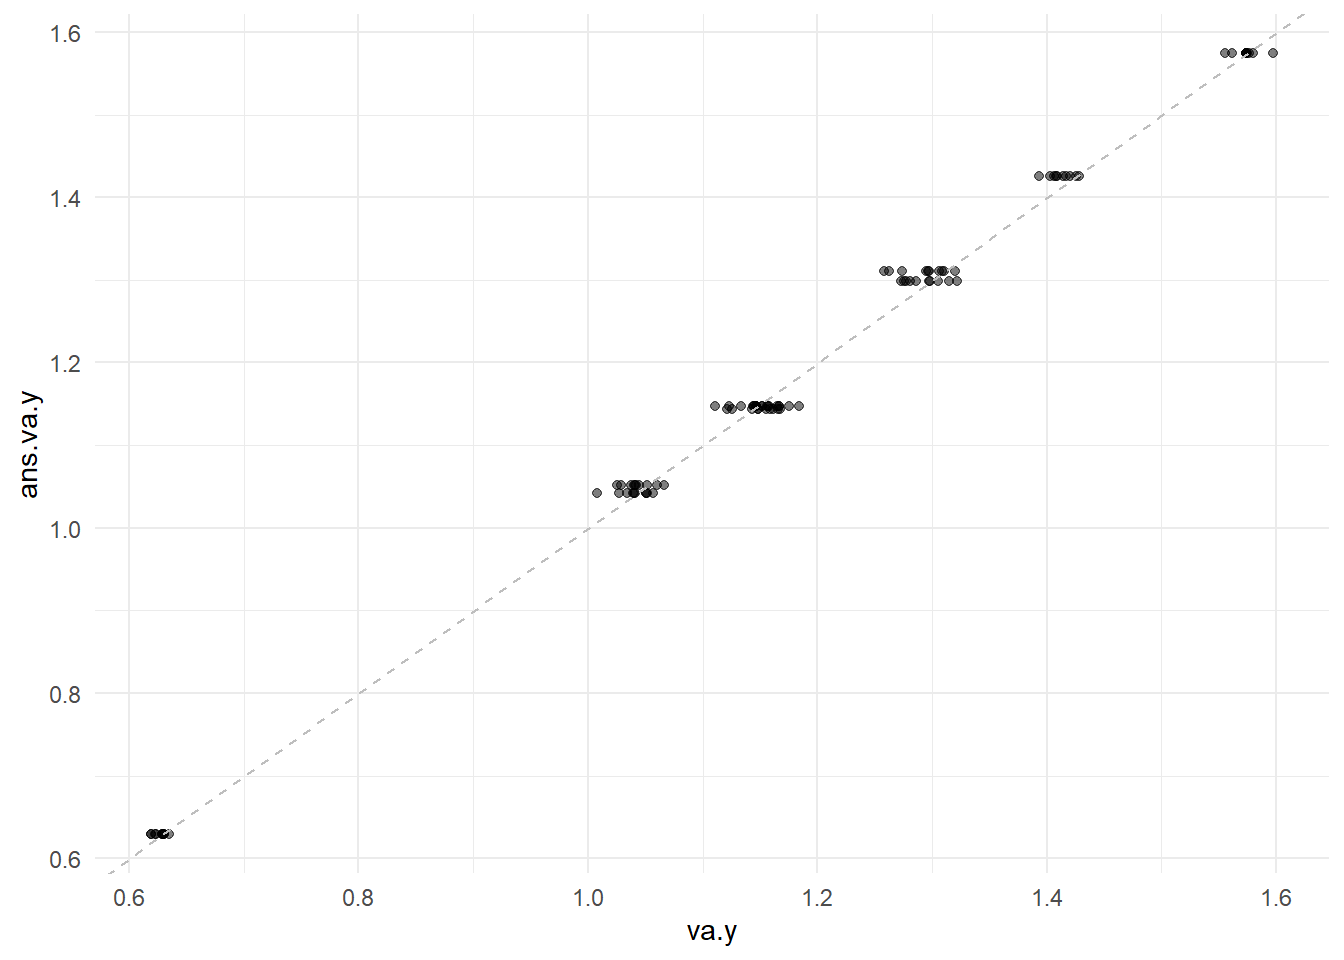
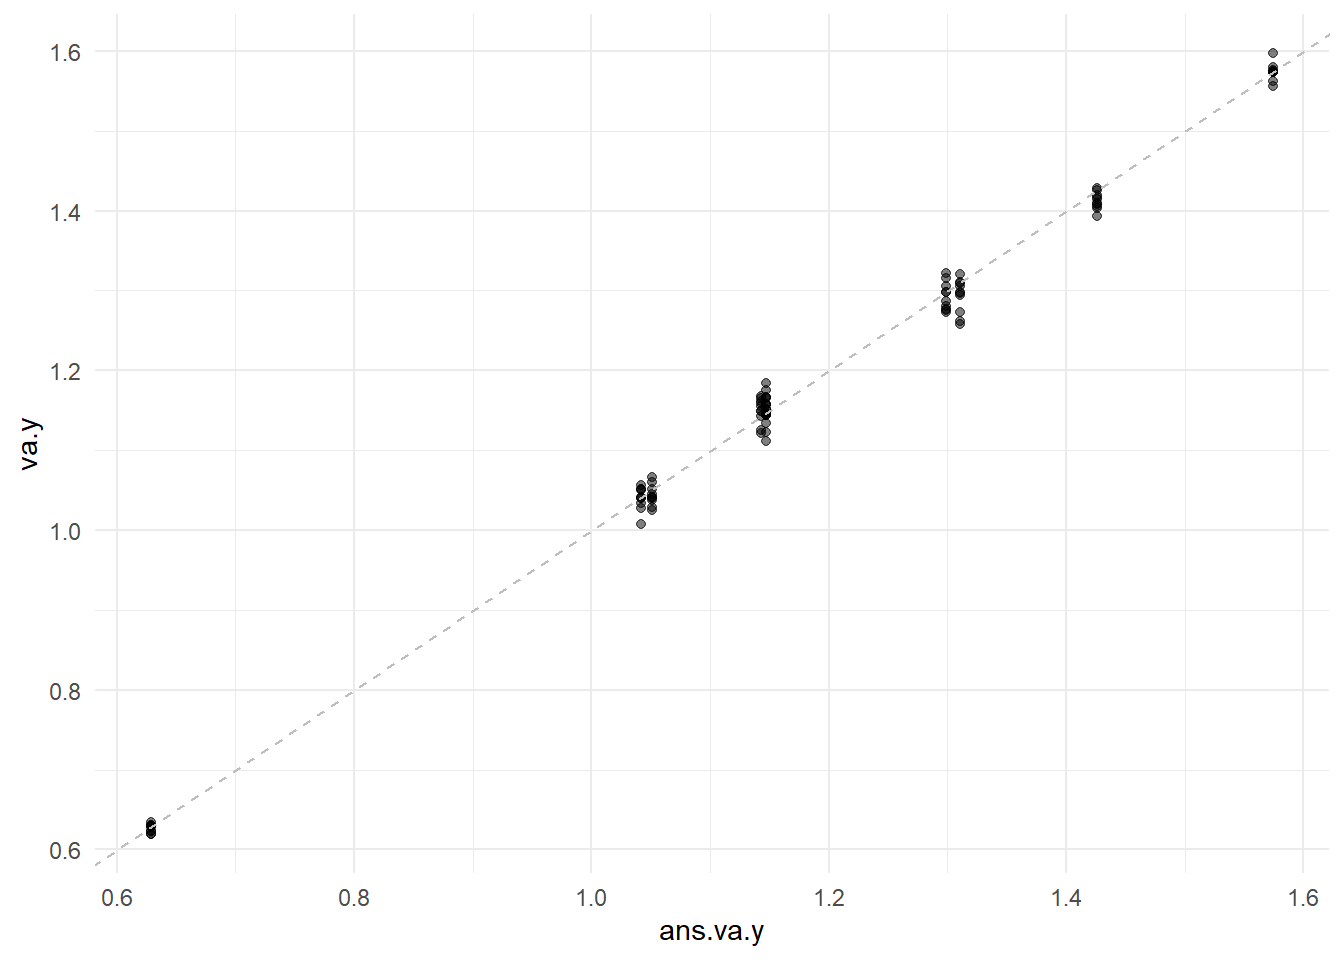
switch x and y axes for one plot

diff --git a/analysis.html b/analysis.html
@@ -707,7 +707,7 @@ Caution
 <span id="cb50-8"><a href="#cb50-8" aria-hidden="true" tabindex="-1"></a>         <span class="at">ans.va.y =</span> <span class="fu">vis_angle</span>(ans.phy.y, dist_to_screen)</span>
 <span id="cb50-9"><a href="#cb50-9" aria-hidden="true" tabindex="-1"></a>         ) <span class="sc">%&gt;%</span> </span>
 <span id="cb50-10"><a href="#cb50-10" aria-hidden="true" tabindex="-1"></a>  <span class="fu">select</span>(va.y, ans.va.y) <span class="sc">%&gt;%</span> </span>
-<span id="cb50-11"><a href="#cb50-11" aria-hidden="true" tabindex="-1"></a>  <span class="fu">ggplot</span>(<span class="fu">aes</span>(<span class="at">x =</span> va.y, <span class="at">y =</span> ans.va.y)) <span class="sc">+</span> </span>
+<span id="cb50-11"><a href="#cb50-11" aria-hidden="true" tabindex="-1"></a>  <span class="fu">ggplot</span>(<span class="fu">aes</span>(<span class="at">y =</span> va.y, <span class="at">x =</span> ans.va.y)) <span class="sc">+</span> </span>
 <span id="cb50-12"><a href="#cb50-12" aria-hidden="true" tabindex="-1"></a>  <span class="fu">geom_point</span>(<span class="at">alpha =</span> <span class="fl">0.5</span>) <span class="sc">+</span> </span>
 <span id="cb50-13"><a href="#cb50-13" aria-hidden="true" tabindex="-1"></a>  <span class="fu">theme_minimal</span>() <span class="sc">+</span> </span>
 <span id="cb50-14"><a href="#cb50-14" aria-hidden="true" tabindex="-1"></a>  <span class="fu">geom_abline</span>(<span class="at">slope =</span> <span class="dv">1</span>, <span class="at">intercept =</span> <span class="dv">0</span>, <span class="at">linetype=</span><span class="st">"dashed"</span>, <span class="at">color=</span><span class="st">"gray"</span>)</span></code><button title="Copy to Clipboard" class="code-copy-button"><i class="bi"></i></button></pre></div>
